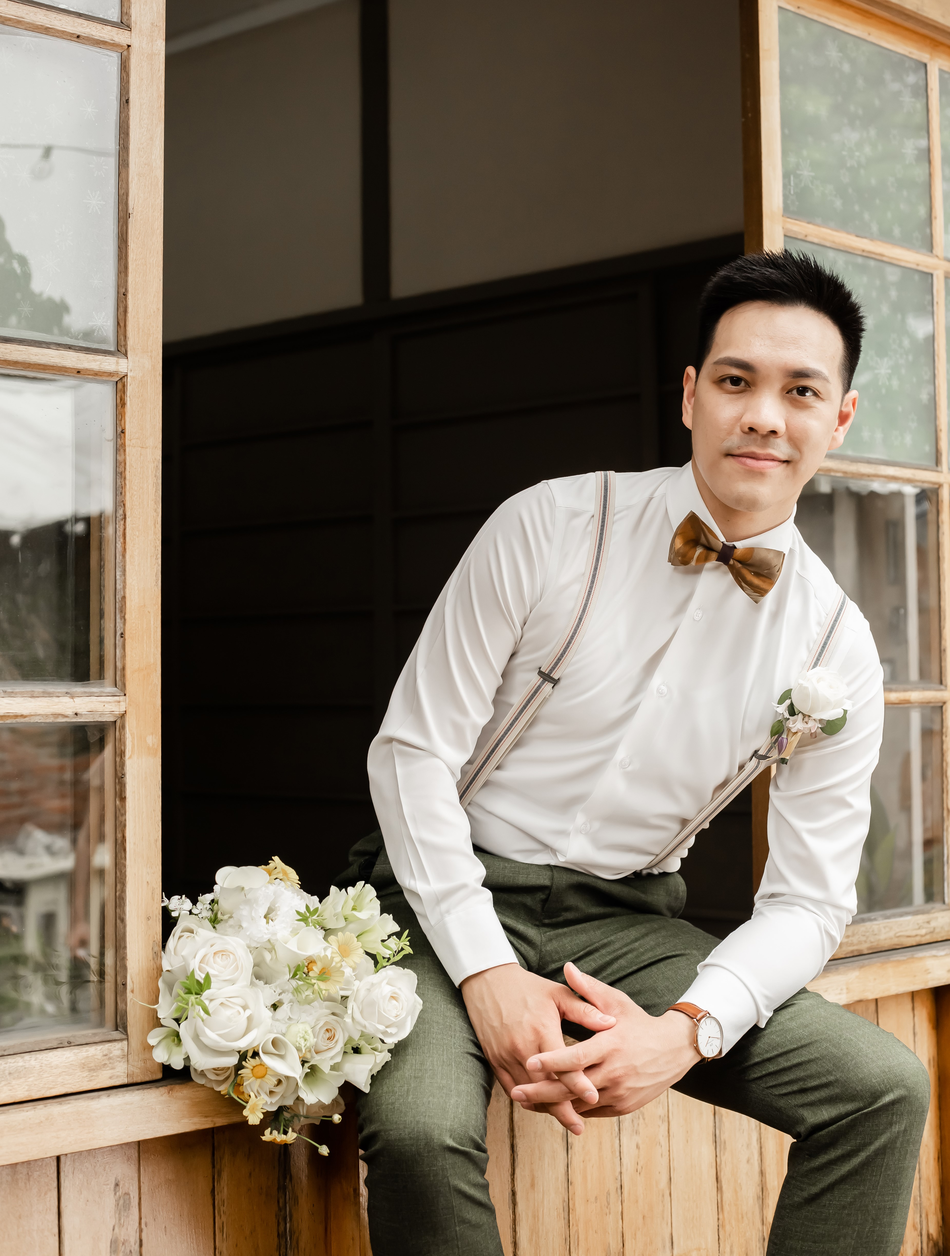
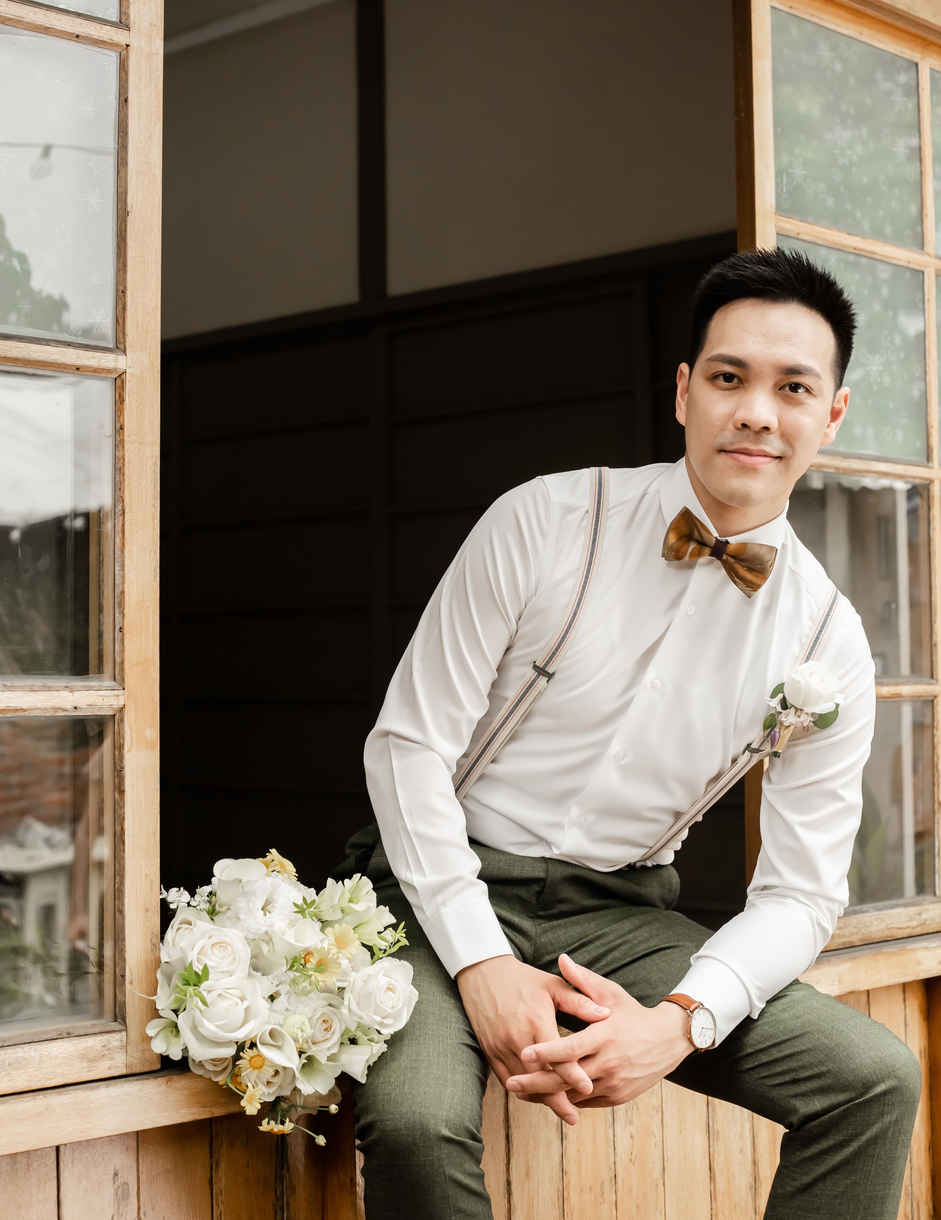
update image height

diff --git a/script.js b/script.js
@@ -113,65 +113,12 @@ dots.forEach((li, key) => {
     })
 })
 
-document.addEventListener('DOMContentLoaded', function () {
-    const hamburgerMenu = document.querySelector('.hamburger-menu');
-    const mobileMenu = document.querySelector('.mobile-menu');
+// JavaScript for handling the mobile menu
+document.addEventListener("DOMContentLoaded", function () {
+    const hamburgerMenu = document.querySelector(".hamburger-menu");
+    const mobileMenuContainer = document.querySelector(".mobile-menu-container");
 
-    // Function to toggle the mobile menu
-    function toggleMobileMenu() {
-        mobileMenu.classList.toggle('show-mobile-menu');
-    }
-
-    // Toggle mobile menu on hamburger icon click
-    hamburgerMenu.addEventListener('click', toggleMobileMenu);
-
-    // Smooth scrolling for navigation links (both desktop and mobile menus)
-    document.querySelectorAll('a[href^="#"]').forEach(anchor => {
-        anchor.addEventListener('click', function (e) {
-            e.preventDefault();
-            const targetId = this.getAttribute('href').substring(1);
-            const targetSection = document.getElementById(targetId);
-            window.scrollTo({
-                top: targetSection.offsetTop - document.querySelector('header').offsetHeight,
-                behavior: 'smooth'
-            });
-
-            // Hide mobile menu when a link is clicked (for mobile view)
-            if (mobileMenu.classList.contains('show-mobile-menu')) {
-                toggleMobileMenu();
-            }
-        });
-    });
-});
-
-
-document.addEventListener('DOMContentLoaded', function () {
-    const hamburgerMenu = document.querySelector('.hamburger-menu');
-    const mobileMenuContainer = document.querySelector('.mobile-menu-container');
-
-    // Function to toggle the mobile menu container
-    function toggleMobileMenu() {
-        mobileMenuContainer.classList.toggle('show-mobile-menu');
-    }
-
-    // Toggle mobile menu container on hamburger icon click
-    hamburgerMenu.addEventListener('click', toggleMobileMenu);
-
-    // Smooth scrolling for navigation links (both desktop and mobile menus)
-    document.querySelectorAll('a[href^="#"]').forEach(anchor => {
-        anchor.addEventListener('click', function (e) {
-            e.preventDefault();
-            const targetId = this.getAttribute('href').substring(1);
-            const targetSection = document.getElementById(targetId);
-            window.scrollTo({
-                top: targetSection.offsetTop - document.querySelector('header').offsetHeight,
-                behavior: 'smooth'
-            });
-
-            // Hide mobile menu container when a link is clicked (for mobile view)
-            if (mobileMenuContainer.classList.contains('show-mobile-menu')) {
-                toggleMobileMenu();
-            }
-        });
+    hamburgerMenu.addEventListener("click", function () {
+        mobileMenuContainer.classList.toggle("show-mobile-menu");
     });
 });

diff --git a/styles.css b/styles.css
@@ -315,7 +315,7 @@ img {
 
 .profile-image img {
     max-width: 100%;
-    height: 55rem;
+    height: auto;
     object-fit: cover;
 }
 
